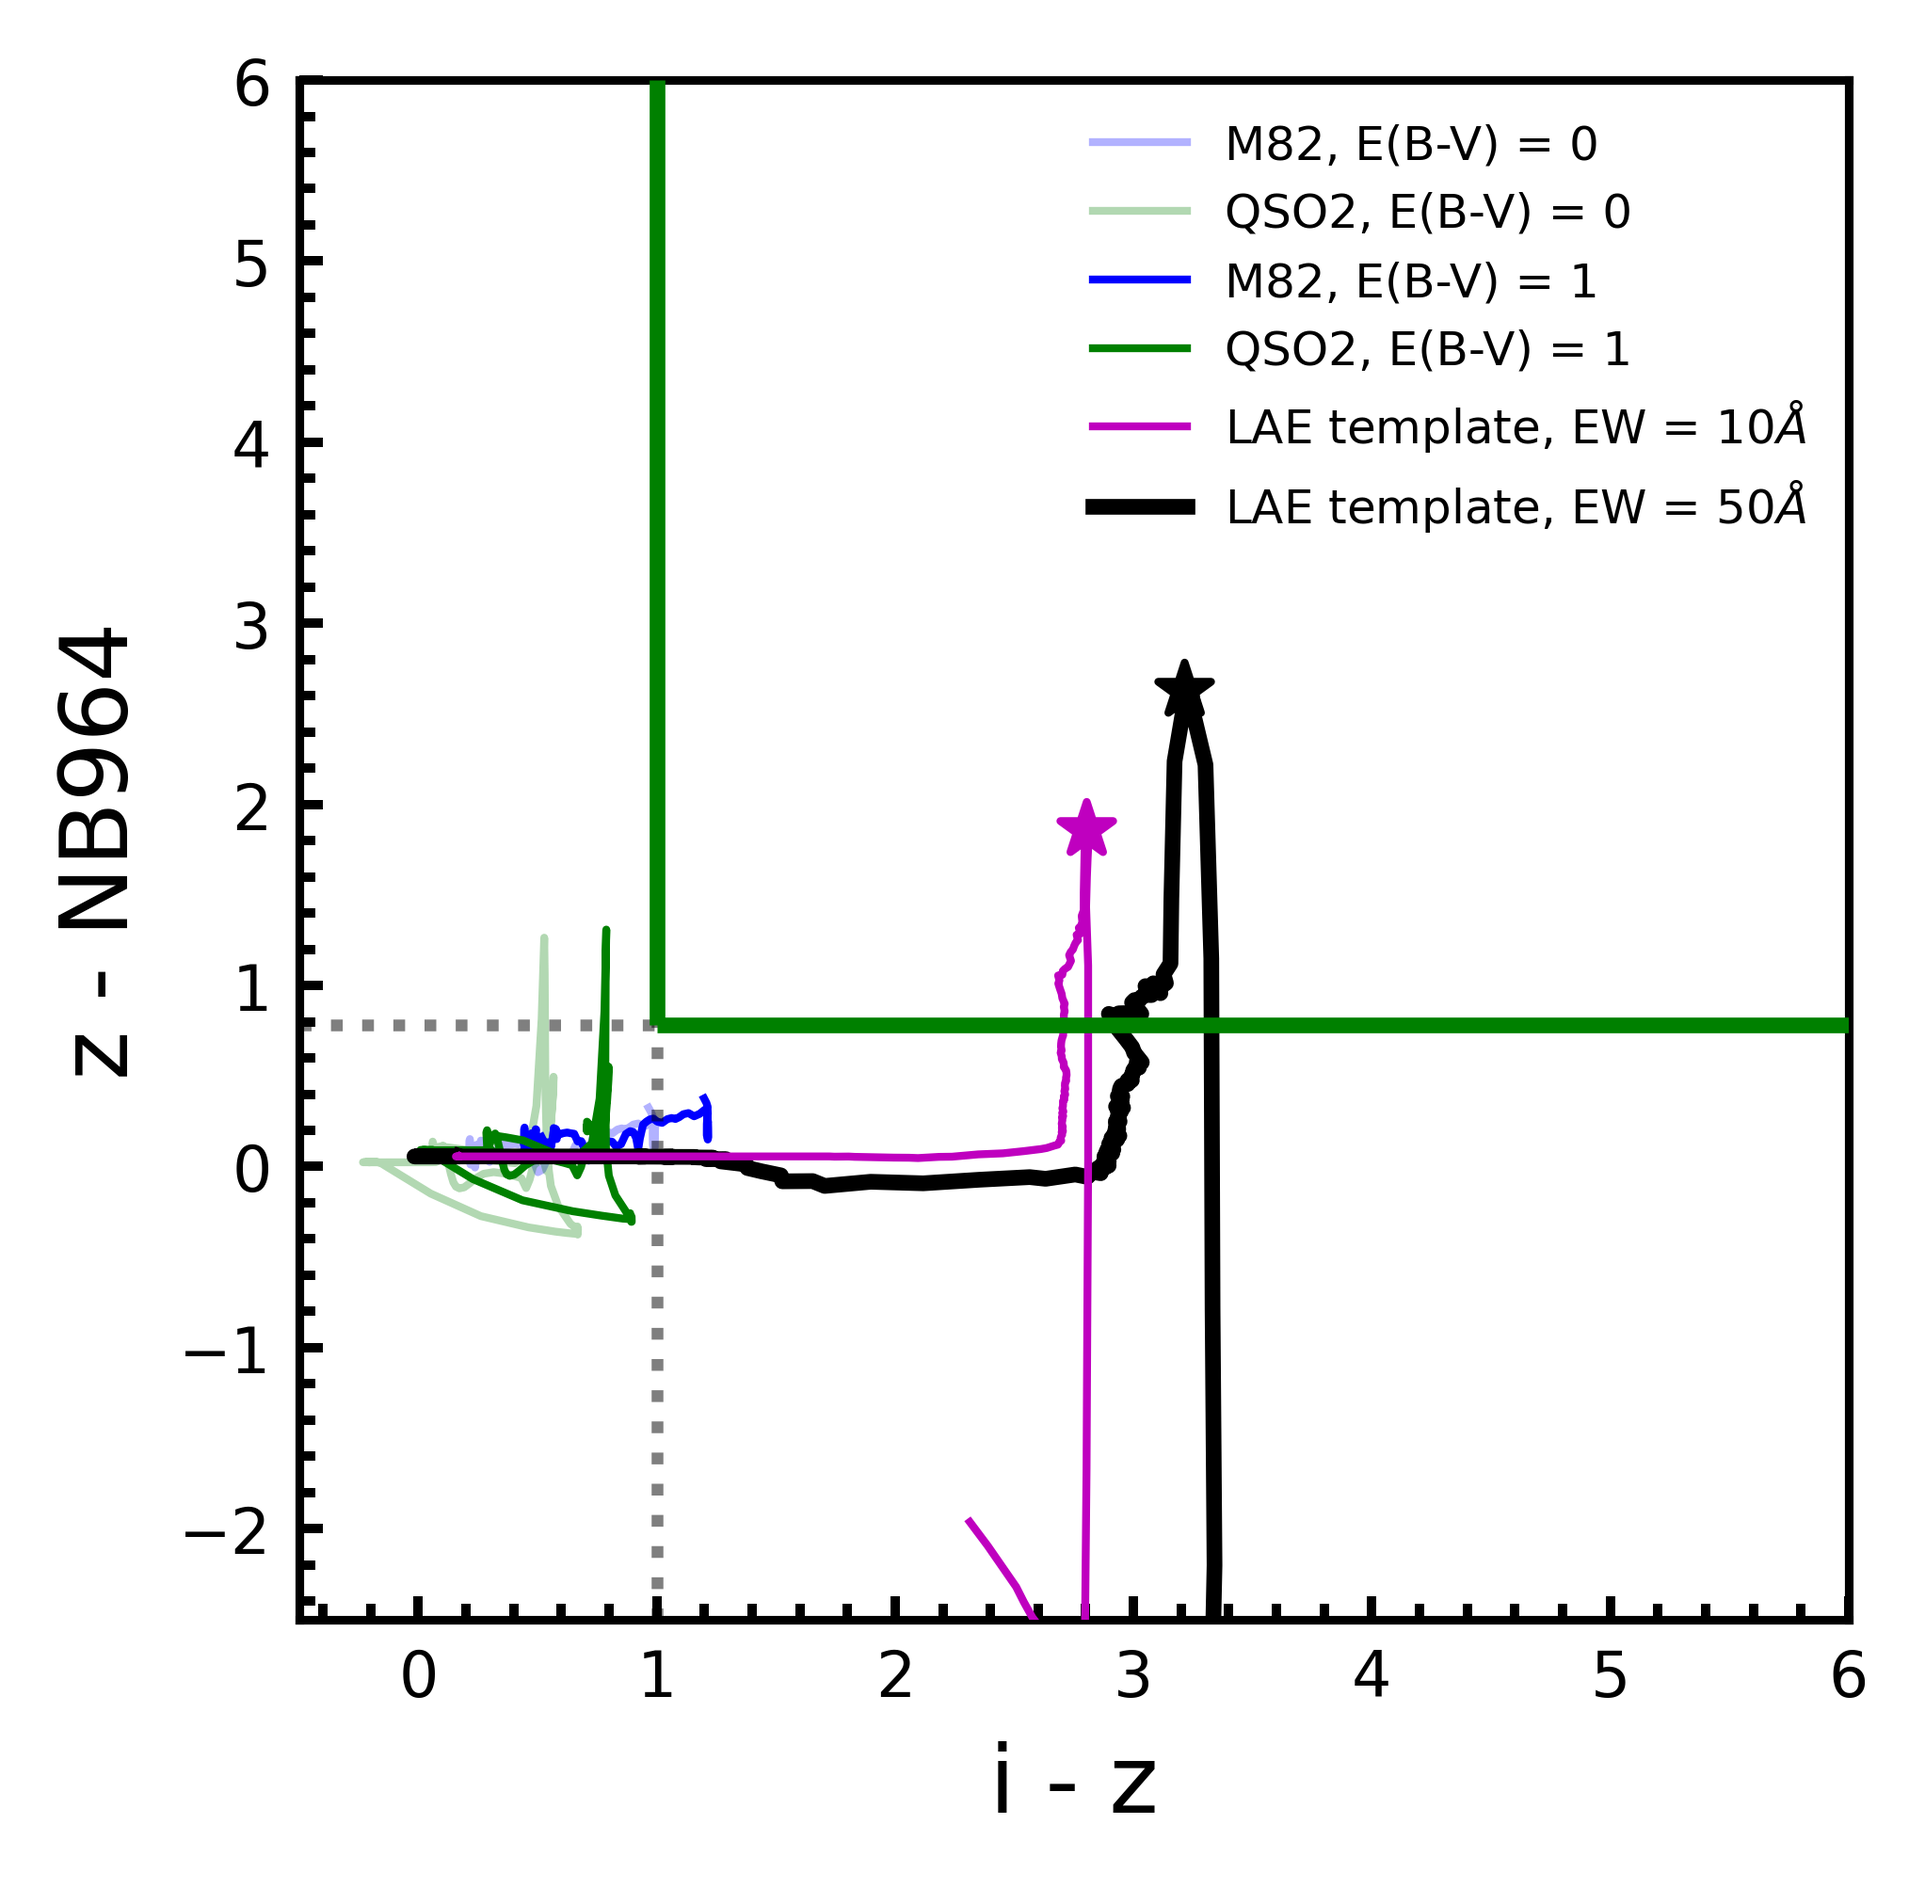
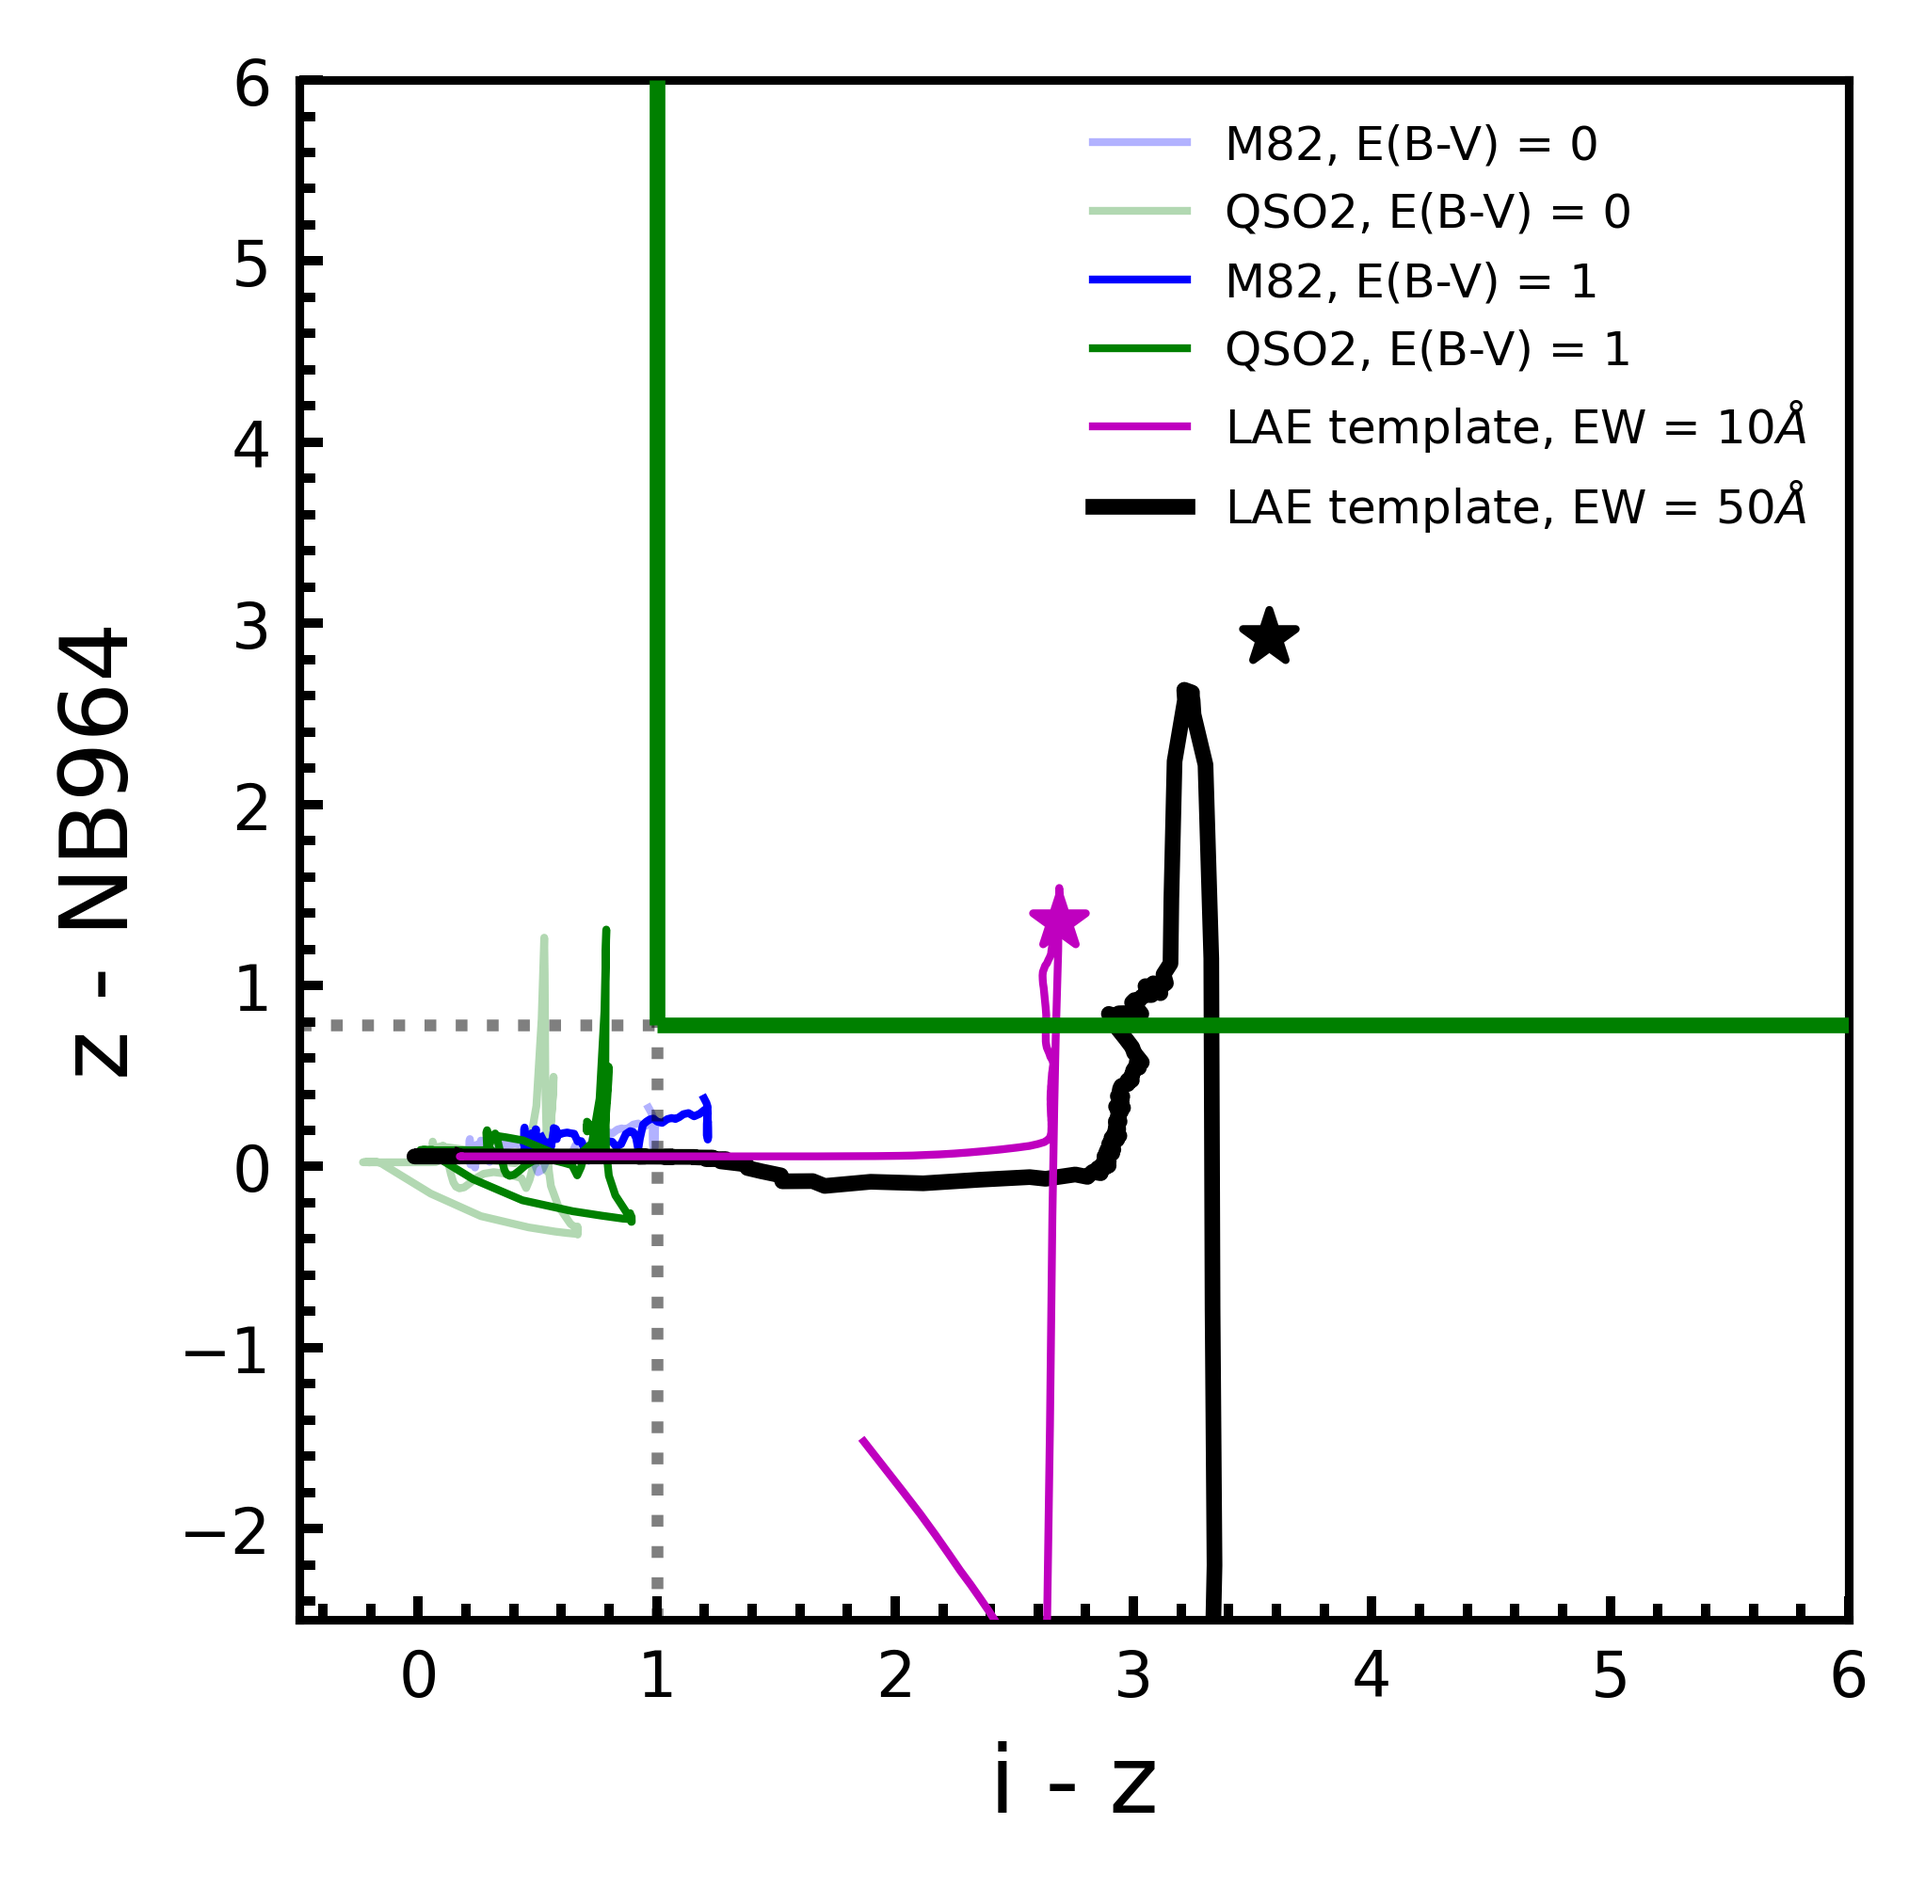
Upadating synthetic LAE units

Changed region(s): [[0.4621, 0.4327, 0.5853, 0.8654], [0.5853, 0.3091, 0.6778, 0.3709]]

diff --git a/plot_depth.py b/plot_depth.py
@@ -3,10 +3,37 @@
 import pylab as plt
 import numpy as np
 from scipy.stats import gaussian_kde
+from scipy.optimize import curve_fit
 import plotting
 from sex_catalog import SExtractorCat
 from zero_points import zero_points
 from zero_points_cdfs import zero_points_cdfs
+
+
+#exponential fitting
+def straight_line(x, m, b):
+    return m*(x) + b
+
+
+# Define the exponential function to fit, including the (x - k) term
+def exp_func(x, a, b, c, k):
+    return a * np.exp(b * (x - k)) + c
+
+def exponential_fit(x_data, y_data, p0, x_min=22, x_max=28, k=25):
+    # Filter data to include only x values between x_min and x_max
+    mask = ~np.isnan(x_data) & ~np.isnan(y_data) & ~np.isinf(x_data) & ~np.isinf(y_data)
+    x_data_clean = x_data[mask]
+    y_data_clean = y_data[mask]
+
+    # Further filter data to include only x values between x_min and x_max
+    range_mask = (x_data_clean >= x_min) & (x_data_clean <= x_max)
+    x_data_filtered = x_data_clean[range_mask]
+    y_data_filtered = y_data_clean[range_mask]
+
+    # Fit the exponential model to the filtered data
+    popt, pcov = curve_fit(exp_func, x_data_filtered, y_data_filtered, p0=p0, maxfev=5000)
+
+    return popt, pcov, x_data_filtered, y_data_filtered
 
 
 HU_VALUES = {
@@ -14,6 +41,7 @@ HU_VALUES = {
     'z': 27.0,
     'n964': 25
 }
+
 
 def read_in_sextractor_mags(sextractor_file_name: str):
     """
@@ -24,6 +52,12 @@ def read_in_sextractor_mags(sextractor_file_name: str):
     mag_err = decam_catalog.catalog['MAGERR_APER'].values
     return decam_mag, mag_err
 
+def read_data(sextractor_cat_name: str, zpt: float):
+    mag, mag_err = read_in_sextractor_mags(sextractor_cat_name)
+    mag += zpt
+    good_values = np.where(mag < 50)[0]
+    mag, mag_err = mag[good_values], mag_err[good_values]
+    return mag, mag_err
 
 def plot_depth(sextractor_cat_name: str, zpt: float, broadband: str) -> None:
     """
@@ -36,6 +70,15 @@ def plot_depth(sextractor_cat_name: str, zpt: float, broadband: str) -> None:
     mag += zpt
     good_values = np.where(mag < 50)[0]
     mag, mag_err = mag[good_values], mag_err[good_values]
+
+    # exponential fitting
+    popt, pcov, x, y = exponential_fit(mag, mag_err, [25, 0.5, 25, 0])
+    plt.scatter(x, y)
+    x_shit = np.linspace(np.min(x), np.max(x))
+    plt.plot(x_shit, exp_func(x_shit, *popt), lw=3, color='r')
+    plt.show()
+    ##
+
 
     signal_to_noise = (2.5/np.log(10))/mag_err
     signal_to_noise_cut = np.where(signal_to_noise < 30)[0]
@@ -50,11 +93,14 @@ def plot_depth(sextractor_cat_name: str, zpt: float, broadband: str) -> None:
     plotting.start_plot(x_label='Measured Mags', y_label='SNR')
     #plt.pcolormesh(x_i, y_i, z_i.reshape(x_i.shape), shading='auto')
     plt.scatter(mag, signal_to_noise, s= 0.01, color='k', alpha=0.3)
+    x_plotting = np.linspace(np.min(mag), np.max(mag), 1000)
+    plt.plot(x_plotting, exp_func(x_plotting, *popt))
     plt.axhline(5, ls='--', lw=1.5, color='r', alpha=0.4)
     plt.axvline(HU_VALUES[broadband], ls = ':', color='k')
     plt.xlim(22, 28)
     plotting.end_plot(f'plots/depth_{broadband}.png')
     plt.show()
+    return popt, pcov
 
 
 if __name__ == '__main__':
@@ -67,7 +113,6 @@ if __name__ == '__main__':
     N_ZPT = zero_points.n964_band.mag_correct(1)
     N_ZPT_135 = zero_points.n964_band.mag_correct(1.35/2)
 
-
     #INFILE_SEX_I_CDFS = '../CDFS_LAGER/i_cdfs_depth.cat'
     #INFILE_SEX_Z_CDFS = '../CDFS_LAGER/z_cdfs_depth.cat'
     #INFILE_SEX_N_CDFS = '../CDFS_LAGER/n964_cdfs.cat'
@@ -77,9 +122,9 @@ if __name__ == '__main__':
     #N_ZPT_CDFS = zero_points_cdfs.n964_band.mag_correct(1)
     #N_ZPT_135_CDFS = zero_points_cdfs.n964_band.mag_correct(1.35/2)
 
-    plot_depth(INFILE_SEX_I, I_ZPT, 'i')
-    plot_depth(INFILE_SEX_Z, Z_ZPT, 'z')
-    plot_depth(INFILE_SEX_N, N_ZPT, 'n964')
+    _, _ = plot_depth(INFILE_SEX_I, I_ZPT, 'i')
+    z_popt, _ = plot_depth(INFILE_SEX_Z, Z_ZPT, 'z')
+    n_popt, _ = plot_depth(INFILE_SEX_N, N_ZPT, 'n964')
     #plot_depth(INFILE_SEX_N_135, N_ZPT_135, 'n964')
 
     #plot_depth(INFILE_SEX_I_CDFS, I_ZPT_CDFS, 'i')

diff --git a/synthetic_lae_spectrum.py b/synthetic_lae_spectrum.py
@@ -57,20 +57,17 @@ class LaeSpectrum:
         """Initializaing the spectrum based on the redshift"""
         self.lum_dist = cosmo.luminosity_distance(redshift).to(u.cm)
         self._log_flux = LaeSpectrum.LOG_LUM_LYA - np.log10(
-            4 * np.pi * self.lum_dist.value**2) - 48
-        self._flux = 10**self._log_flux * (u.erg/u.s/self.lum_dist.unit**2)
-
-
+            4 * np.pi * self.lum_dist.value**2) #- 48
+        self._flux = 10**self._log_flux * (u.erg/u.s/u.cm**2)
         self._ew_lya_obs = LaeSpectrum.EW_LYA * (1 + redshift)
 
         wavelength = LaeSpectrum.wavelength_rest * (1 + redshift)
+        flux = (LaeSpectrum.flux_rest.value * self._flux.value) + (self._flux.value/self._ew_lya_obs.value)
         #flux = (LaeSpectrum.flux_rest * self._flux/1) + (self._flux/self._ew_lya_obs)
         #flux = su.convert_flux(wavelength, flux, out_flux_unit=su.PHOTLAM)
-        flux = (LaeSpectrum.flux_rest.value * self._flux.value) + (self._flux.value/self._ew_lya_obs.value)
-
 
         self.spectrum = SourceSpectrum(
-            Empirical1D, points = wavelength, lookup_table = flux, keep_neg=True)
+            Empirical1D, points = wavelength, lookup_table = flux * (su.FLAM), keep_neg=True)
         if include_absorption:
             extinction_curve = etau_madau(wavelength, redshift)
             self.spectrum = self.spectrum * extinction_curve

diff --git a/roberto_completeness.py b/roberto_completeness.py
@@ -1,0 +1,43 @@
+"""
+Script to perform the completeness correction as suggested by 
+Roberto, in order to address the referee comment.
+"""
+
+import numpy as np
+import pylab as plt
+import astropy.units as u
+
+from synthetic_lae_spectrum import LaeSpectrum
+from plot_color_color_model import Filter
+
+
+"""
+Minimum EW based on the color criteria Z-NB > 1
+"""
+
+
+
+# Reading in the filters.
+Z_BANDPASS_FILE = '../QSO_Spectra/decam_z_bandpass.txt'
+N_BANDPASS_FILE = '../QSO_Spectra/NB964_DECam_F29.txt'
+z_band = Filter(Z_BANDPASS_FILE)
+n_band = Filter(N_BANDPASS_FILE)
+
+colors = []
+equivalent_widths = np.arange(0.001, 100) #angstroms
+for width in equivalent_widths:
+	LaeSpectrum.EW_LYA = width * u.angstrom
+	LaeSpectrum.FWHM_LYA = 1 * (u.km/u.s)
+	lae = LaeSpectrum(6.9)
+	color = z_band.observe_magnitude(lae.spectrum) - n_band.observe_magnitude(lae.spectrum)
+	colors.append(color.value)
+
+plt.plot(equivalent_widths, colors)
+plt.xlabel('EWs', fontsize=30)
+plt.ylabel('Z-NB', fontsize=30)
+plt.show()
+
+
+# Maxmimum EW based on the depth plots and z-detection criteria
+# |z-NB| > 2.5*sqrt(sigma_z**2 + sigma_NB**2)
+

diff --git a/plot_color_color_model.py b/plot_color_color_model.py
@@ -33,8 +33,9 @@ class Filter:
 
     def observe_magnitude(self, spectrum: SourceSpectrum) -> Observation:
         """Creates an observation through the filter and determines the AB mag."""
+        mirror_area = np.pi*((400)**2) * (u.cm**2)
         obs = Observation(spectrum, self.band, force='taper')
-        return obs.effstim(u.ABmag)
+        return obs.effstim(u.ABmag, area = mirror_area)
 
 
 def calculate_color(filter_1: Filter, filter_2: Filter, source: SourceSpectrum) -> float:
@@ -102,7 +103,7 @@ if __name__ == '__main__':
 
     qso_i_color, qso_z_color = work_out_colors_for_redshift([6.91])
     plt.scatter(qso_i_color[0], qso_z_color[0], s=50, marker='*', zorder=99, color='k')
-    LaeSpectrum.EW_LYA = 10*u.angstrom
+    LaeSpectrum.EW_LYA = 1*u.angstrom
     qso_i_color, qso_z_color = work_out_colors_for_redshift([6.91])
     plt.scatter(qso_i_color[0], qso_z_color[0], s=50, marker='*', zorder=99, color='m')
     lower_i, lower_z = work_out_colors_for_redshift(plot_redshift_range)
